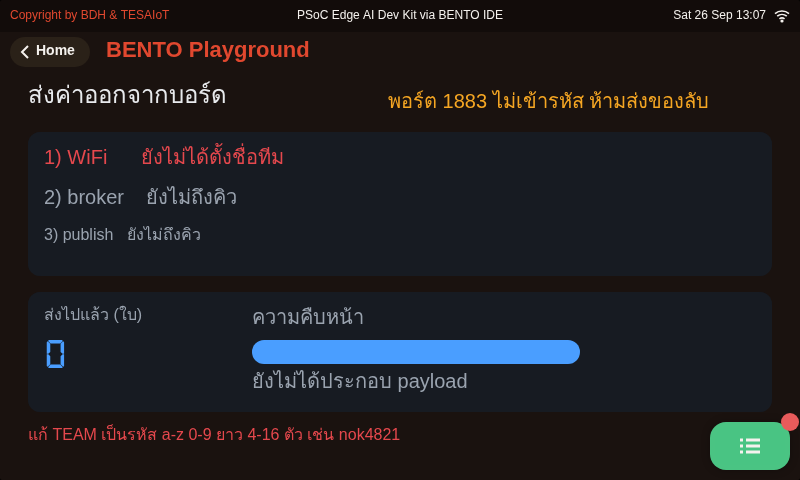
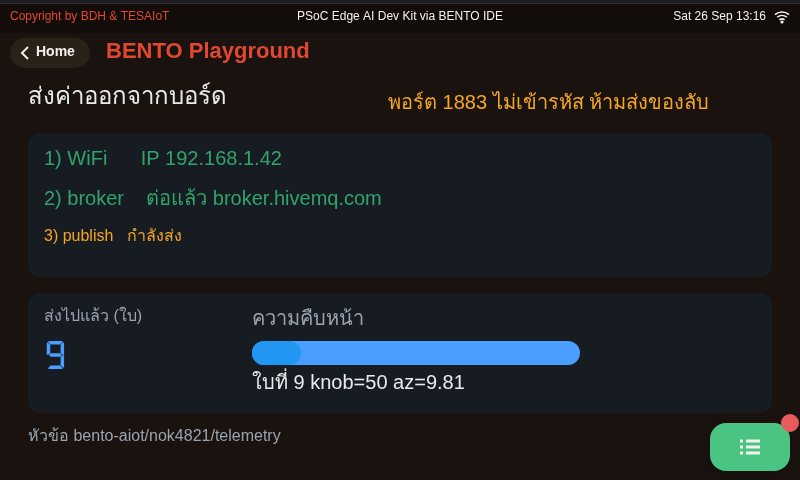
AIoT slides: the 12 lesson-opener screens re-taken, captions match them (upstream X-2)
Each 'where this set of lessons ends up' slide showed an old solution screen
with a note 'ภาพนี้เก่า … รอถ่ายใหม่'. The pictures are now the current
solutions and examples (s02 with TEAM set to the id its own comment suggests),
and the captions describe what is on them: numbers (64, 23 of 64, 2703 ms),
the redesigned s03/s04/s08 screens, and no more 'old picture' notes. The
note on s02_07, re-taken in #3, is corrected too.

diff --git a/courses/aiot-micropython/m01-ui-application/l04-wifi-first-connect/slides.md b/courses/aiot-micropython/m01-ui-application/l04-wifi-first-connect/slides.md
@@ -101,10 +101,10 @@ section.cover img{filter:none}
 
 ![หน้าจอจาก BENTO Emulator ของ 05_value_leaves_the_board.py บันไดสามขั้น WiFi broker และการส่ง w:440](img/emu/s02.png)
 
-<div style="font-size:.55em;color:#78909c;margin-top:-.3em">หน้าจอจริงจากการรัน <a href="https://github.com/tesaiot/tesa-qualification-program/blob/main/courses/aiot-micropython/m01-ui-application/l05-values-out-commands-back/examples/05_value_leaves_the_board.py"><code>05_value_leaves_the_board.py</code></a> บน BENTO Emulator ที่ 800x480 เท่าจอของทั้งสองบอร์ด — ภาพนี้ถ่ายตอนที่ Emulator ยังใช้ broker จำลอง ค่าในภาพจึงไม่ได้ออกไปไหนจริง ภาพนี้แสดงหน้าตาจอ ไม่ใช่หลักฐานว่าส่งถึง · **ภาพนี้เก่า** ในภาพ broker ยังเป็นเลขแลน `192.168.1.50` และหัวข้อเป็น `bento/eva-team03/telemetry` ส่วนไฟล์ปัจจุบันใช้ `broker.hivemq.com` กับหัวข้อ `bento-aiot/team03/telemetry` ส่ง 60 ใบ และส่งค่าเอียง `az` ด้วย รอถ่ายใหม่</div>
+<div style="font-size:.55em;color:#78909c;margin-top:-.3em">หน้าจอจริงจากการรัน <a href="https://github.com/tesaiot/tesa-qualification-program/blob/main/courses/aiot-micropython/m01-ui-application/l05-values-out-commands-back/examples/05_value_leaves_the_board.py"><code>05_value_leaves_the_board.py</code></a> บน BENTO Emulator ที่ 800x480 เท่าจอของทั้งสองบอร์ด ถ่ายจากไฟล์ปัจจุบันโดยตั้ง `TEAM = "nok4821"` — ภาพนี้แสดงหน้าตาจอ ไม่ใช่หลักฐานว่าบอร์ดจริงส่งผ่านเน็ตของห้องได้</div>
 
-- ภาพนี้คือไฟล์ที่ 4 ของชุดบทเรียน และคือปลายทางจริง: **บันไดสามขั้นไล่เป็นเขียวครบ** — WiFi ได้ IP · broker ต่อแล้ว · publish กำลังส่ง — เลขใบที่ส่งเดินขึ้นพร้อมค่าลูกบิดจริงที่เพิ่งออกจากบอร์ดไป (ในภาพเก่า broker ยังเป็นเลขแลน วันนี้ขั้นที่ 2 จะขึ้นว่า `broker.hivemq.com`)
-- แถวล่างคือหัวข้อที่ส่งขึ้น broker กับคำเตือนที่ไฟล์เขียนไว้บนจอตลอดเวลาที่รัน — พอร์ต 1883 ไม่เข้ารหัส ห้ามส่งของลับ
+- ภาพนี้คือไฟล์ที่ 4 ของชุดบทเรียน และคือปลายทางจริง: **บันไดสามขั้น** — WiFi ได้ IP · broker ต่อแล้วที่ `broker.hivemq.com` · publish กำลังส่ง — เลขใบที่ส่งเดินขึ้นพร้อมค่าลูกบิดและค่าเอียง `az` ที่เพิ่งออกจากบอร์ดไป
+- แถวล่างคือหัวข้อที่ส่งขึ้น broker (`bento-aiot/<TEAM>/telemetry`) และมุมขวาบนคือคำเตือนที่ไฟล์เขียนไว้บนจอตลอดเวลาที่รัน — พอร์ต 1883 ไม่เข้ารหัส ห้ามส่งของลับ
 - ภาพนี้เกิดได้ต่อเมื่อเน็ตของห้องปล่อยพอร์ต 1883 ออกไปถึง `broker.hivemq.com` — ถ้าถูกกัน ขั้นที่ 2 จะเป็นแดงพร้อมบอกเหตุผล แล้วโปรแกรมจบตรงนั้นอย่างสุภาพ ส่วนฝั่งผู้รับ วันนี้คือหน้าเว็บ [`my_first_reader.html`](https://github.com/tesaiot/tesa-qualification-program/blob/main/courses/aiot-micropython/shared/web/my_first_reader.html) ไม่ต้องลงโปรแกรมใดในเครื่อง
 
 > **ยังไม่มีใครรันไฟล์ 05 กับ 06 บนบอร์ดกับ broker.hivemq.com** สิ่งที่วัดแล้วคือเวลาไปกลับของ broker จาก Mac บนโต๊ะผู้สอน ไม่ใช่จากเน็ตขององค์กร ถ้าไปไม่ถึง ไฟล์จะขึ้นบนจอตรง ๆ ว่าหยุดที่ขั้นไหนและเพราะอะไร — ผลแบบนั้นก็ยังเป็นผลที่ใช้ได้

diff --git a/courses/aiot-micropython/m02-ui-to-hardware/l01-gpio-leds-buttons/slides.md b/courses/aiot-micropython/m02-ui-to-hardware/l01-gpio-leds-buttons/slides.md
@@ -168,17 +168,17 @@ section.cover img{filter:none}
 
 ---
 
-## ปลายทางของชุดบทเรียนนี้ — สามบรรทัดที่แปลว่าเราคุยกับบอร์ดรู้เรื่องแล้ว
+## ปลายทางของชุดบทเรียนนี้ — แผงคุมไฟวิ่งที่คุยกับบอร์ดรู้เรื่อง
 
 ![หน้าจอจาก BENTO Emulator ของเฉลยไฟวิ่งกับปุ่ม พร้อมตัวนับการกด w:540](img/emu/s03.png)
 
-<div style="font-size:.58em;color:#78909c;margin-top:-.3em">หน้าจอจริงจากการรันโค้ดเฉลยบน BENTO Emulator ที่ 800x480 เท่าจอของทั้งสองบอร์ด — ไม่ใช่ภาพวาด ไม่ใช่ mock-up และไม่ใช่ภาพถ่ายจากบอร์ด · <b>ภาพนี้เก่า</b> ถ่ายตอนเฟิร์มแวร์ยังตอบชื่อปุ่มว่า "SW1" และก่อนโค้ดเฉลยเปลี่ยนสองบรรทัดล่าง (16 ก.ย.) — บนบอร์ดจริงวันนี้บรรทัดล่างจะเป็นตามข้อสามข้างล่าง รอถ่ายใหม่</div>
+<div style="font-size:.58em;color:#78909c;margin-top:-.3em">หน้าจอจริงจากการรันโค้ดเฉลยบน BENTO Emulator ที่ 800x480 เท่าจอของทั้งสองบอร์ด — ไม่ใช่ภาพวาด ไม่ใช่ mock-up และไม่ใช่ภาพถ่ายจากบอร์ด · โค้ดคือ <code>s03_led_button.py</code> ของบทเรียน 2.3</div>
 
-- จอมีแค่ Console สามบรรทัด เพราะผลลัพธ์จริงของชุดบทเรียนนี้อยู่ที่ **LED บนตัวบอร์ด** ไม่ใช่บนจอ
-- บรรทัดแรกเป็นค่าที่ถามบอร์ดเอาเอง: Eva Kit ตอบ LED 3 ดวง · Dev Kit ตอบ 5 ดวง · ปุ่ม 1 ปุ่มทั้งคู่
-- อีกสองบรรทัดคือกับดักชื่อปุ่ม — โค้ดเรียกมันว่า `USER Button 1` ซึ่ง**ไม่ใช่**ป้ายที่พิมพ์บนแผ่นวงจร และบอร์ดสองรุ่นพิมพ์ต่างกัน (สไลด์ "กับดักชื่อ" เล่าว่าทำไม)
+- **บนซ้าย** ไฟบนบอร์ดตามจำนวนที่ถามบอร์ดเอาเอง: Eva Kit ตอบ 3 ดวง · Dev Kit ตอบ 5 ดวง ดวงที่สว่างบนจอคือดวงที่โค้ดสั่ง — จอสะท้อนคำสั่ง ไม่ใช่ค่าที่ขาอ่านกลับมา
+- **บนขวา** ปุ่มกับตัวนับการกด — ชื่อ `USER Button 1` คือชื่อที่เฟิร์มแวร์ตอบ **ไม่ใช่**ป้ายที่พิมพ์บนแผ่นวงจร และบอร์ดสองรุ่นพิมพ์ต่างกัน (สไลด์ "กับดักชื่อ" เล่าว่าทำไม)
+- **ล่าง** ปุ่มสัมผัส "เดินไฟวิ่ง" กับ "หยุดไฟวิ่ง" และเวลาที่เหลือของรอบ 30 วินาที
 
-> จอที่ดูเรียบที่สุดในคอร์ส แต่ตอนรันจริงจะมี LED ไล่ดวงและตัวนับการกดปุ่มทำงานอยู่ข้าง ๆ
+> ผลลัพธ์จริงอยู่ที่ **LED บนตัวบอร์ด** ที่ไล่ดวงอยู่ จอบอกแค่ว่าโค้ดสั่งอะไร และนับการกดได้กี่ครั้ง
 
 ---
 

diff --git a/courses/aiot-micropython/m02-ui-to-hardware/l07-adc-capsense/slides.md b/courses/aiot-micropython/m02-ui-to-hardware/l07-adc-capsense/slides.md
@@ -128,14 +128,14 @@ section table td, section table th { padding: .16em .55em; }
 
 ![หน้าจอจาก BENTO Emulator ของเฉลยเกจลูกบิดกับแถบสัมผัส สี่การ์ด w:540](img/emu/s05.png)
 
-<div style="font-size:.58em;color:#78909c;margin-top:-.3em">หน้าจอจริงจากการรันโค้ดเฉลยบน BENTO Emulator ที่ 800x480 เท่าจอของ Eva Kit และ Dev Kit — ไม่ใช่ภาพวาด ไม่ใช่ mock-up และไม่ใช่ภาพถ่ายจากบอร์ด · <b>ภาพนี้ยังเป็นหน้าจอของเฉลยรุ่นก่อนหน้า</b> รอถ่ายใหม่ให้ตรงกับโค้ดปัจจุบันที่อธิบายไว้ข้างล่าง</div>
+<div style="font-size:.58em;color:#78909c;margin-top:-.3em">หน้าจอจริงจากการรันโค้ดเฉลยบน BENTO Emulator ที่ 800x480 เท่าจอของ Eva Kit และ Dev Kit — ไม่ใช่ภาพวาด ไม่ใช่ mock-up และไม่ใช่ภาพถ่ายจากบอร์ด</div>
 
 หน้าจอของเฉลยปัจจุบันแบ่งเป็นสี่การ์ด และทุกการ์ดตอบคำถามคนละข้อ
 
-- **บนซ้าย** ค่าจากลูกบิดเป็น `ui.Bar` วางทับ `ui.Scale` ที่มีขีดและตัวเลข 0-100 — ตัวเลขเปอร์เซ็นต์จึงไม่ได้ลอยอยู่เฉย ๆ มันมีพิสัยของตัวเองอยู่ข้าง ๆ พร้อมค่าดิบกับโวลต์กำกับ
-- **บนขวา** เกณฑ์เตือนเป็น `ui.Spinbox` ที่ผู้ใช้ตั้งเองด้วยปุ่มเพิ่ม/ลด และ `ui.Led` สองดวงบอกว่าตอนนี้ต่ำกว่าเกณฑ์หรือเกิน
+- **บนซ้าย** ค่าจากลูกบิดเป็น `ui.Bar` วางทับ `ui.Scale` ที่มีขีดและตัวเลข 0-100 — ตัวเลขเปอร์เซ็นต์จึงไม่ได้ลอยอยู่เฉย ๆ มันมีพิสัยของตัวเองอยู่ข้าง ๆ พร้อมค่าดิบกับโวลต์กำกับ และค่าดิบเทียบค่าที่กรองแล้ว (alpha 0.2, คาบ 200 ms) ซึ่งเป็นบทเรียนหลักของครึ่งหลังของชุดบทเรียน
+- **บนขวา** เกณฑ์เตือนเป็น `ui.Spinbox` ที่ผู้ใช้ตั้งเองด้วยปุ่มเพิ่ม/ลด
 - **ล่างซ้าย** แถบสัมผัสวางบนไม้บรรทัดชุดเดียวกัน กับไฟสองดวงแทนสถานะปุ่มทองแดง และบรรทัดคุณภาพของค่า
-- **ล่างขวา** ค่าดิบเทียบค่าที่กรองแล้ว (alpha 0.2, คาบ 200 ms) ซึ่งเป็นบทเรียนหลักของครึ่งหลังของชุดบทเรียน
+- **ล่างขวา** `ui.Led` สองดวงบอกว่าตอนนี้ต่ำกว่าเกณฑ์หรือเกิน
 
 > ค่าเดียวกันแสดงได้หลายแบบ — เลือกให้ตรงกับคำถามที่คนดูจออยากรู้ และค่าที่วัดได้ต้องมาพร้อมเกณฑ์ของมันเสมอ
 

diff --git a/courses/aiot-micropython/m02-ui-to-hardware/l04-touch-widgets/slides.md b/courses/aiot-micropython/m02-ui-to-hardware/l04-touch-widgets/slides.md
@@ -129,11 +129,11 @@ section table td, section table th { padding: .16em .55em; }
 
 ![หน้าจอจาก BENTO Emulator ของเฉลยแผงควบคุมสัมผัสสามแถวที่คุมไฟจริง w:500](img/emu/s04.png)
 
-<div style="font-size:.58em;color:#78909c;margin-top:-.3em">หน้าจอจริงจากการรันโค้ดเฉลยบน BENTO Emulator ที่ 800x480 เท่าจอของทั้งสองบอร์ด — ไม่ใช่ภาพวาด ไม่ใช่ mock-up และไม่ใช่ภาพถ่ายจากบอร์ด · <b>ภาพนี้เก่า (13 ส.ค.)</b> ถ่ายตอนเฉลยยังเป็นสามปุ่มสลับ + Switch "ทั้งหมด" + ALL OFF — เฉลยปัจจุบันเป็นสามแถว แถวละ ไฟสถานะ + เปิด + ปิด และการ์ดคำสั่งทั้งชุดทางขวา (สไลด์เฉลยส่วนที่สอง) รอถ่ายใหม่</div>
+<div style="font-size:.58em;color:#78909c;margin-top:-.3em">หน้าจอจริงจากการรันโค้ดเฉลยบน BENTO Emulator ที่ 800x480 เท่าจอของทั้งสองบอร์ด — ไม่ใช่ภาพวาด ไม่ใช่ mock-up และไม่ใช่ภาพถ่ายจากบอร์ด</div>
 
 - ปุ่มบนจอ แดง / เขียว / น้ำเงิน ตรงกับ LED สามสีบนบอร์ดหนึ่งต่อหนึ่ง — แผงนี้คุม "สามสี" ไม่ใช่ "ทุกดวง" (Dev Kit มีห้าดวง ดวง LED1/LED2 บนโมดูลไม่อยู่ในแผงนี้) ดัชนีดวงของแต่ละสีถามจากชื่อที่บอร์ดรายงาน
-- ในภาพเก่า สีละหนึ่งปุ่มสลับ + Switch "ทั้งหมด" + ALL OFF · เฉลยวันนี้แยก **ปุ่มเปิด** กับ **ปุ่มปิด** สีละคู่ และ "ปิดทั้งหมด" เปิดกล่องยืนยันก่อน — เหตุผลอยู่ในสไลด์เฉลยส่วนที่สอง
-- บรรทัดสถานะในภาพคือ "แดง:OFF เขียว:OFF น้ำเงิน:OFF" · เฉลยวันนี้แยกเป็นไฟสถานะสีละดวง + ตัวเลข "ติดอยู่ n จาก 3 ดวง" ที่เขียนทับใหม่ทุกครั้งที่ `set_led()` ทำงาน
+- สีละหนึ่งแถว: ไฟสถานะ + **ปุ่มเปิด** + **ปุ่มปิด** แยกกันคนละปุ่ม · การ์ดขวามี "เปิดทั้งหมด" กับ "ปิดทั้งหมด" และ "ปิดทั้งหมด" เปิดกล่องยืนยันก่อน — เหตุผลอยู่ในสไลด์เฉลยส่วนที่สอง
+- บนการ์ดขวาคือตัวเลข "ติดอยู่ n จาก 3 ดวง" ที่เขียนทับใหม่ทุกครั้งที่ `set_led()` ทำงาน ไม่ใช่ข้อความที่พิมพ์ต่อท้ายไปเรื่อย ๆ
 
 > ตั้งแต่ชุดบทเรียนนี้ไป จอไม่ใช่แค่ที่พิมพ์ข้อความออก แต่เป็นทางที่คนสั่งงานเข้ามา
 

diff --git a/courses/aiot-micropython/m01-ui-application/l01-board-tour/slides.md b/courses/aiot-micropython/m01-ui-application/l01-board-tour/slides.md
@@ -243,10 +243,10 @@ section blockquote { font-size: .78em; margin: .1em 0; }
 
 ![หน้าจอจาก BENTO Emulator ของ 15_one_number_many_faces.py ตัวเลขเดียวขับ widget ทุกตัวบนจอ w:540](img/emu/s01.png)
 
-<div style="font-size:.58em;color:#78909c;margin-top:-.3em">หน้าจอจริงจากการรัน <a href="https://github.com/tesaiot/tesa-qualification-program/blob/main/courses/aiot-micropython/m01-ui-application/l03-inside-the-box/examples/15_one_number_many_faces.py"><code>15_one_number_many_faces.py</code></a> บน BENTO Emulator ที่ 800x480 เท่าจอของทั้งสองบอร์ด — ไม่ใช่ภาพวาด ไม่ใช่ mock-up · <b>ภาพนี้เก่า</b> ถ่ายตอนไฟล์ยังพิมพ์ว่า "จาก 32" ปัจจุบันไฟล์พิมพ์ "จาก 64" แล้ว รอถ่ายใหม่</div>
+<div style="font-size:.58em;color:#78909c;margin-top:-.3em">หน้าจอจริงจากการรัน <a href="https://github.com/tesaiot/tesa-qualification-program/blob/main/courses/aiot-micropython/m01-ui-application/l03-inside-the-box/examples/15_one_number_many_faces.py"><code>15_one_number_many_faces.py</code></a> บน BENTO Emulator ที่ 800x480 เท่าจอของทั้งสองบอร์ด — ไม่ใช่ภาพวาด ไม่ใช่ mock-up</div>
 
-- **เลขตัวเดียว 76 ขับทุกอย่างบนจอพร้อมกัน** — Arc, Compass, Seg7, Bar, Slider, Switch, Checkbox, Chart, Spinner
-- มุมล่างเขียนว่า `ui.list() นับได้ 24 ตัว จาก 64` — บอร์ดนับ widget ของตัวเองได้ · 64 คือเพดานของเฟิร์มแวร์ ส่วนงบที่คอร์สตั้งให้ตัวเองคือ 32 ต่อหน้า (บทเรียน 2.4–2.6 อธิบายว่าทำไม)
+- **เลขตัวเดียวขับทุกอย่างบนจอพร้อมกัน** (ในภาพคือ 64) — Arc, Compass, Seg7, Bar, Slider, Switch, Checkbox, Chart, Spinner, Image
+- มุมล่างเขียนว่า `ui.list() นับได้ 23 ตัว จาก 64` — บอร์ดนับ widget ของตัวเองได้ · 64 คือเพดานของเฟิร์มแวร์ ส่วนงบที่คอร์สตั้งให้ตัวเองคือ 32 ต่อหน้า (บทเรียน 2.4–2.6 อธิบายว่าทำไม)
 - ปุ่ม "แตะฟังเสียง" มีจริง กดแล้วดัง — บน Eva Kit ดังจากลำโพงบนบอร์ด (Dev Kit: ฟังที่บอร์ดของทีม)
 
 > ทั้งหมดนี้เขียนด้วย Python บนบอร์ด ไม่มี LVGL ไม่มี C สักบรรทัด — และวันนี้ผู้เรียนจะได้เขียนเอง

diff --git a/courses/aiot-micropython/m05-capstone/l01-problem-to-design/slides.md b/courses/aiot-micropython/m05-capstone/l01-problem-to-design/slides.md
@@ -191,11 +191,11 @@ section table td, section table th { padding: .16em .55em; }
 
 ## ปลายทางของชุดบทเรียนนี้ — โครงตั้งต้นที่ทีมจะต่อยอด
 
-![หน้าจอจาก BENTO Emulator ของโครงตั้งต้น capstone รุ่นก่อนปรับหน้าจอ w:540](img/emu/s12.png)
+![หน้าจอจาก BENTO Emulator ของโครงตั้งต้น capstone w:540](img/emu/s12.png)
 
-<div style="font-size:.58em;color:#78909c;margin-top:-.3em">หน้าจอจากการรันโค้ดเฉลย <b>รุ่นก่อนปรับหน้าจอ</b> บน BENTO Emulator ที่ 800x480 เท่าจอของทั้งสองบอร์ด — ไม่ใช่ภาพวาดและไม่ใช่ mock-up แต่รุ่นปัจจุบันเพิ่มไม้บรรทัด ไฟสถานะสามดวง ปุ่มเปิด/ปิดไฟเตือน และกล่องยืนยันเข้าไปแล้ว ภาพชุดใหม่ยังไม่ได้ถ่าย · ชื่อ <code>team01-eva</code> ในภาพคือ device_id รุ่นก่อนเปลี่ยนชื่อ ปัจจุบันไฟล์ใช้ <code>team01</code></div>
+<div style="font-size:.58em;color:#78909c;margin-top:-.3em">หน้าจอจากการรันโค้ดเฉลยบน BENTO Emulator ที่ 800x480 เท่าจอของทั้งสองบอร์ด — ไม่ใช่ภาพวาดและไม่ใช่ mock-up · โค้ดคือ <code>s12_capstone_starter.py</code> ของบทเรียน 5.3</div>
 
-โครงของหน้าจอรุ่นปัจจุบัน แบ่งเป็นสามการ์ด
+โครงของหน้าจอ แบ่งเป็นสามการ์ด
 
 - **ซ้ายบน** ค่าที่วัดได้ตัวใหญ่ พร้อม `ui.Bar` วางทับ `ui.Scale` — ค่ากับพิสัยอยู่ด้วยกัน และมีป้ายบอกคุณภาพของค่าเองว่าสดหรือค้าง
 - **ซ้ายล่าง** ไฟสถานะสามดวง (ปกติ · เฝ้าระวัง · ผิดปกติ) ติดทีละดวง กับปุ่มรับทราบ

diff --git a/courses/aiot-micropython/m04-iot-connectivity/l01-wifi-networking/slides.md b/courses/aiot-micropython/m04-iot-connectivity/l01-wifi-networking/slides.md
@@ -161,11 +161,11 @@ section table td, section table th { padding: .16em .55em; }
 
 ## ปลายทางของชุดบทเรียนนี้ — หน้าสถานะเครือข่ายของทีม
 
-![หน้าจอจาก BENTO Emulator ของเฉลยหน้าสถานะเครือข่าย รุ่นก่อนปรับหน้าจอ w:470](img/emu/s09.png)
+![หน้าจอจาก BENTO Emulator ของเฉลยหน้าสถานะเครือข่าย w:470](img/emu/s09.png)
 
-<div style="font-size:.56em;color:#78909c;margin-top:-.3em">หน้าจอจากการรันโค้ดเฉลย <b>รุ่นก่อนปรับหน้าจอ</b> บน BENTO Emulator ที่ 800x480 เท่าจอของทั้งสองบอร์ด — ไม่ใช่ภาพวาดและไม่ใช่ mock-up · รุ่นปัจจุบันเปลี่ยนแผงซ้ายเป็น <code>ui.Table</code> และเพิ่มไฟสถานะกับมาตรวัดในแผงขวาแล้ว ภาพชุดใหม่ยังไม่ได้ถ่าย</div>
+<div style="font-size:.56em;color:#78909c;margin-top:-.3em">หน้าจอจากการรันโค้ดเฉลยบน BENTO Emulator ที่ 800x480 เท่าจอของทั้งสองบอร์ด — ไม่ใช่ภาพวาดและไม่ใช่ mock-up · โค้ดคือ <code>s09_network_status.py</code> ของบทเรียน 4.3</div>
 
-โครงของหน้าจอรุ่นปัจจุบัน อ่านจากซ้ายไปขวา
+โครงของหน้าจอ อ่านจากซ้ายไปขวา
 
 - ซ้าย **ตาราง** สี่คอลัมน์ SSID · dBm · ช่อง · รหัส เรียงจากแรงไปอ่อน — หัวตารางบวกสามแถวพอดีความสูง 288
 - ขวา **ไฟสถานะสองดวง** (ต่ออยู่ / ยังไม่ต่อ) แล้วต่อด้วย ping สองปลายทาง · SSID กับ IP อยู่แถบบน

diff --git a/courses/aiot-micropython/m03-sensor-hmi/l07-hmi-design/slides.md b/courses/aiot-micropython/m03-sensor-hmi/l07-hmi-design/slides.md
@@ -145,9 +145,9 @@ section table td, section table th { padding: .16em .55em; }
 
 <div style="font-size:.58em;color:#78909c;margin-top:-.3em">หน้าจอจริงจากการรันโค้ดเฉลยบน BENTO Emulator ที่ 800x480 เท่าจอของ Eva Kit และ Dev Kit — ไม่ใช่ภาพวาด ไม่ใช่ mock-up และไม่ใช่ภาพถ่ายจากบอร์ด</div>
 
-- การ์ดสี่ใบเต็มจอ: IMU chart, Compass 013 deg, CapSense และ Potentiometer
+- การ์ดสี่ใบ: ความเร่ง BMI270 (กราฟ) · เข็มทิศ BMM350 · แถบสัมผัส CapSense กับปุ่มทองแดงสองปุ่ม · ลูกบิด Potentiometer พร้อมเกณฑ์เป็นเปอร์เซ็นต์และไฟ "เกิน"
 - แต่ละใบคือ Panel หนึ่งใบที่ให้สีขอบต่างกัน ใช้แยกกลุ่มข้อมูลด้วยสายตาก่อนอ่านตัวหนังสือ
-- แถบล่างบอกชื่อทีมกับ "รอบที่ 27" และตัวเลข loop ทางขวา · ภาพนี้เป็นเฉลยรุ่นก่อน ผังปัจจุบันย้ายตัวนับรอบกับปุ่มสั่งงานขึ้นแถบหัว (ดูผังพิกัดข้างหน้า) รอถ่ายใหม่
+- แถบหัวบอกชื่อทีม ตัวนับรอบกับ loop ไฟ "ค่าค้าง" และปุ่มสั่งงาน "เดินหน้า" / "หยุดภาพ" (ดูผังพิกัดข้างหน้า)
 
 > งบ widget มีจำกัด การจัดวางจึงเป็นการตัดสินใจ ไม่ใช่การตกแต่ง
 

diff --git a/courses/aiot-micropython/m01-ui-application/l06-link-lab/slides.md b/courses/aiot-micropython/m01-ui-application/l06-link-lab/slides.md
@@ -328,7 +328,7 @@ section p { margin: .2em 0; }
 
 </div>
 
-<div style="font-size:.56em;color:#90a4ae">**07** บอร์ดจำได้เองว่าจะต่อไปที่ไหน แม้ถอดไฟแล้วเสียบใหม่ (**ภาพเก่า** ถ่ายก่อนไฟล์เปลี่ยนเป็นอ่านอย่างเดียว ไฟล์ปัจจุบันจบหลังแสดงคลังค่าตั้งถ้ายังไม่ใส่ `PLATFORM_BROKER` รอถ่ายใหม่)</div>
+<div style="font-size:.56em;color:#90a4ae">**07** บอร์ดจำได้เองว่าจะต่อไปที่ไหน แม้ถอดไฟแล้วเสียบใหม่ (ไฟล์อ่านอย่างเดียว และจบหลังแสดงคลังค่าตั้งถ้ายังไม่ใส่ `PLATFORM_BROKER` อย่างที่เห็นในภาพ)</div>
 
 <div style="font-size:.52em;color:#78909c;margin-top:.4em">ภาพจากตัวจำลอง bento\_sim ซึ่งเรนเดอร์ด้วยโค้ด CM55 ชุดเดียวกับที่รันบนบอร์ด ที่ 800x480 เท่าจอของทั้งสองบอร์ด — แสดง**หน้าจอที่ตัวอย่างสร้าง** ค่าจากเซนเซอร์ WiFi และไมค์เป็นค่าแทนบนเครื่องโฮสต์ ไม่ใช่ผลการวัดของบอร์ด</div>
 

diff --git a/courses/aiot-micropython/m04-iot-connectivity/l07-tls-concepts/slides.md b/courses/aiot-micropython/m04-iot-connectivity/l07-tls-concepts/slides.md
@@ -126,7 +126,7 @@ section table td, section table th { padding: .16em .55em; }
 
 - การ์ดบนบอกโหมดกับพอร์ตที่ใช้จริง **serverTLS -> 8884** · เลขใหญ่นับใบที่ส่งสำเร็จ · "สาย: ต่ออยู่" จะเปลี่ยนเป็นแดงทันทีที่หลุด
 - กราฟล่างคือจังหวะการส่ง (ms ระหว่างสองครั้ง) — เส้นราบแปลว่าลูปเดินสม่ำเสมอ ไม่มีรอบไหนค้าง
-- บรรทัดล่างสุดคือหลักฐานของชุดบทเรียน: **TLS สำเร็จใน 2738 ms** — การจับมือนับเป็นวินาที และต้องเช็ก `is_connected()` ก่อนส่งทุกครั้ง
+- บรรทัดล่างสุดคือหลักฐานของชุดบทเรียน: **TLS สำเร็จใน 2703 ms** — การจับมือนับเป็นวินาที และต้องเช็ก `is_connected()` ก่อนส่งทุกครั้ง
 
 > หน้าตาแทบไม่ต่างจากบทเรียน 4.4–4.6 — สิ่งที่เปลี่ยนคือเลขพอร์ต กับบรรทัด "TLS สำเร็จ" ที่ต้องรอเป็นวินาทีกว่าจะขึ้น
 

diff --git a/courses/aiot-micropython/m03-sensor-hmi/l04-sampling/slides.md b/courses/aiot-micropython/m03-sensor-hmi/l04-sampling/slides.md
@@ -127,7 +127,7 @@ section table td, section table th { padding: .16em .55em; }
 
 ![หน้าจอจาก BENTO Emulator ของเฉลยกราฟความเร่งสามแกนแบบ real-time w:470](img/emu/s07.png)
 
-<div style="font-size:.58em;color:#78909c;margin-top:-.3em">หน้าจอจริงจากการรันโค้ดเฉลยบน BENTO Emulator ที่ 800x480 เท่าจอของ Eva Kit และ Dev Kit — ไม่ใช่ภาพวาด ไม่ใช่ mock-up และไม่ใช่ภาพถ่ายจากบอร์ด · <b>ภาพนี้ยังเป็นหน้าจอของเฉลยรุ่นก่อนหน้า (ปุ่ม PAUSE ใบเดียว ไม่มีตาราง)</b> รอถ่ายใหม่ให้ตรงกับโค้ดปัจจุบันที่อธิบายไว้ข้างล่าง</div>
+<div style="font-size:.58em;color:#78909c;margin-top:-.3em">หน้าจอจริงจากการรันโค้ดเฉลยบน BENTO Emulator ที่ 800x480 เท่าจอของ Eva Kit และ Dev Kit — ไม่ใช่ภาพวาด ไม่ใช่ mock-up และไม่ใช่ภาพถ่ายจากบอร์ด</div>
 
 หน้าจอของเฉลยปัจจุบันแบ่งเป็นสามส่วน และสองส่วนแรกตอบคนละคำถามกัน
 

diff --git a/courses/aiot-micropython/m03-sensor-hmi/l01-accelerometer-tilt/slides.md b/courses/aiot-micropython/m03-sensor-hmi/l01-accelerometer-tilt/slides.md
@@ -153,7 +153,7 @@ section table td, section table th { padding: .16em .55em; }
 
 ![หน้าจอจาก BENTO Emulator ของเฉลยเครื่องวัดระดับดิจิทัลสองแกน w:540](img/emu/s06.png)
 
-<div style="font-size:.58em;color:#78909c;margin-top:-.3em">หน้าจอจริงจากการรันโค้ดเฉลยบน BENTO Emulator ที่ 800x480 เท่าจอของ Eva Kit และ Dev Kit — ไม่ใช่ภาพวาด ไม่ใช่ mock-up และไม่ใช่ภาพถ่ายจากบอร์ด · <b>ภาพนี้ยังเป็นหน้าจอของเฉลยรุ่นก่อนหน้า</b> รอถ่ายใหม่ให้ตรงกับโค้ดปัจจุบันที่อธิบายไว้ข้างล่าง</div>
+<div style="font-size:.58em;color:#78909c;margin-top:-.3em">หน้าจอจริงจากการรันโค้ดเฉลยบน BENTO Emulator ที่ 800x480 เท่าจอของ Eva Kit และ Dev Kit — ไม่ใช่ภาพวาด ไม่ใช่ mock-up และไม่ใช่ภาพถ่ายจากบอร์ด</div>
 
 หน้าจอของเฉลยปัจจุบัน (`s06_digital_level.py` ของบทเรียน 3.3) แบ่งเป็นสามการ์ด
 
